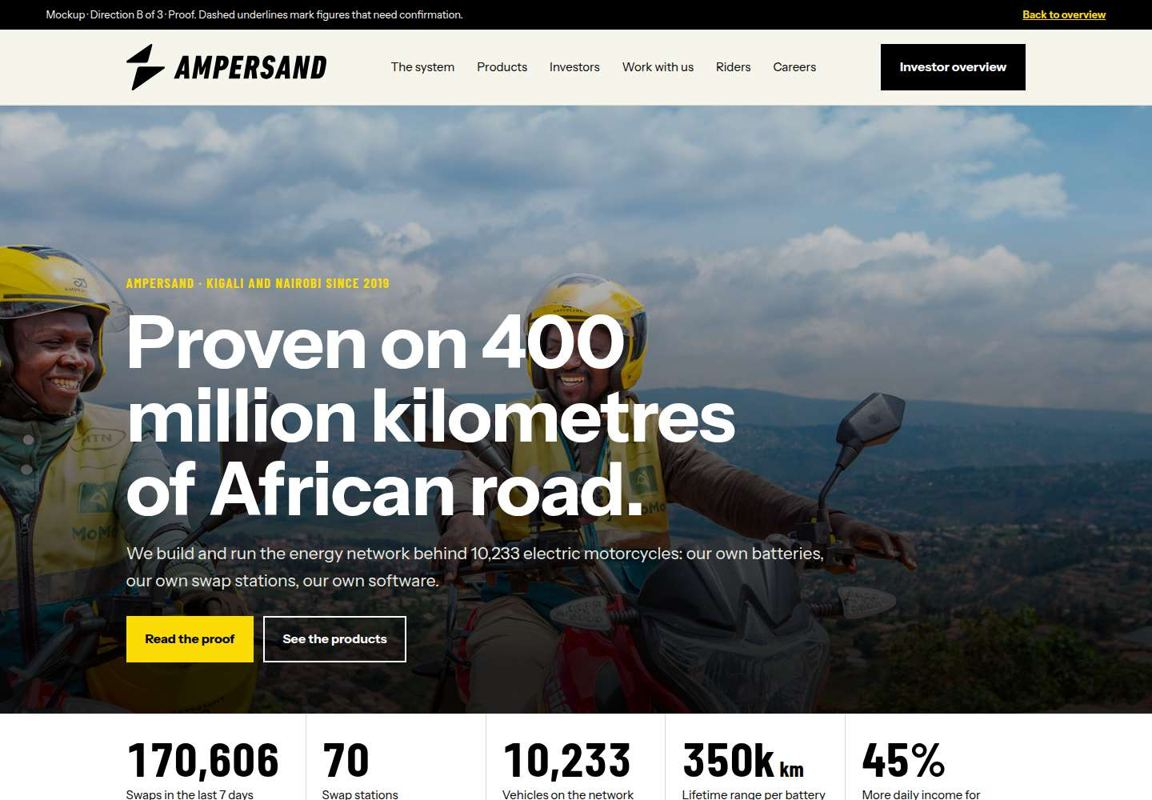
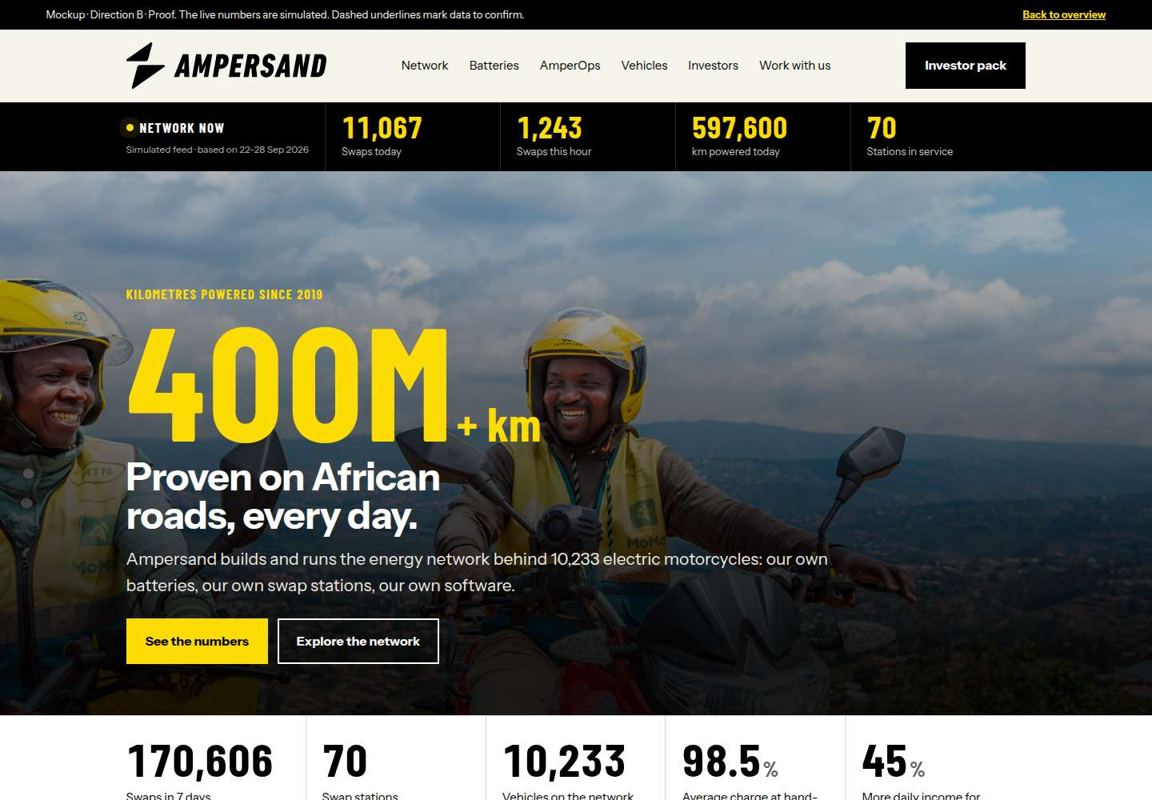
Fill the Proof site with measured network data
Add monthly swap totals (Jan 2023 to Aug 2026), charge at hand-over,
swap time, queue wait, distance per discharge cycle and active packs
from read-only Metabase queries for 22-28 Sep 2026. Show rated and
measured range separately. Fix the phone hero layout and number
wrapping. List the new data caveats on the overview page and use the
Proof site as the Direction B preview.

Claude-Session: https://claude.ai/code/session_011MGWp8ueEGbp3fGTaK5ujy

diff --git a/proof/assets/data.js b/proof/assets/data.js
@@ -1,14 +1,64 @@
-/* Numbers for the Proof site. Source and period for each value are in the comments. */
+/* Numbers for the Proof site. Each value has its source and period. Update before launch. */
 window.AMP_DATA = {
   asOf: '22–28 Sep 2026',
   dailySwaps: 24372,   // AmperOps: 170,606 swaps / 7 days
-  kmPerSwap: 47.5,     // inferred: 950k km/day ÷ 20k swaps/day (ampersand.energy)
+  kmPerSwap: 54,       // Metabase cycles_v2: 52–58 km average per discharge cycle, 22–28 Sep 2026
   stations: 70,        // AmperOps: 41 Rwanda + 29 Kenya public stations
-  trendUnit: 'swaps per month',
-  // Milestones from ampersand.energy, and Sep 2026 from AmperOps (7-day total × 30.4 ÷ 7).
+  // Share of daily swaps by hour, Kigali time. Shape from Metabase swaps_v2 (peak about 18:00 local), smoothed.
+  hourly: [0.6,0.4,0.3,0.3,0.5,1.5,3.5,5.0,5.4,5.4,5.3,5.3,5.4,5.4,5.5,5.7,5.9,6.1,6.2,5.9,5.3,4.8,4.6,2.2],
+  trendUnit: 'swaps',
+  // Metabase swaps_v2, monthly totals, Rwanda + Kenya, UTC months. Sep 2026 left out (partial month).
   trend: [
-    {x: '2022-12', label: 'Dec 2022', y: 80000},
-    {x: '2023-06', label: 'Jun 2023', y: 115000},
-    {x: '2026-09', label: 'Sep 2026', y: 740917}
+    {x: '2023-01', label: 'Jan 2023', y: 83645},
+    {x: '2023-02', label: 'Feb 2023', y: 77736},
+    {x: '2023-03', label: 'Mar 2023', y: 86091},
+    {x: '2023-04', label: 'Apr 2023', y: 84738},
+    {x: '2023-05', label: 'May 2023', y: 99444},
+    {x: '2023-06', label: 'Jun 2023', y: 108228},
+    {x: '2023-07', label: 'Jul 2023', y: 120504},
+    {x: '2023-08', label: 'Aug 2023', y: 130997},
+    {x: '2023-09', label: 'Sep 2023', y: 126132},
+    {x: '2023-10', label: 'Oct 2023', y: 135939},
+    {x: '2023-11', label: 'Nov 2023', y: 143143},
+    {x: '2023-12', label: 'Dec 2023', y: 175622},
+    {x: '2024-01', label: 'Jan 2024', y: 191356},
+    {x: '2024-02', label: 'Feb 2024', y: 194154},
+    {x: '2024-03', label: 'Mar 2024', y: 230599},
+    {x: '2024-04', label: 'Apr 2024', y: 232452},
+    {x: '2024-05', label: 'May 2024', y: 263532},
+    {x: '2024-06', label: 'Jun 2024', y: 289953},
+    {x: '2024-07', label: 'Jul 2024', y: 337660},
+    {x: '2024-08', label: 'Aug 2024', y: 369055},
+    {x: '2024-09', label: 'Sep 2024', y: 385099},
+    {x: '2024-10', label: 'Oct 2024', y: 429877},
+    {x: '2024-11', label: 'Nov 2024', y: 439348},
+    {x: '2024-12', label: 'Dec 2024', y: 507031},
+    {x: '2025-01', label: 'Jan 2025', y: 517376},
+    {x: '2025-02', label: 'Feb 2025', y: 495708},
+    {x: '2025-03', label: 'Mar 2025', y: 547084},
+    {x: '2025-04', label: 'Apr 2025', y: 514357},
+    {x: '2025-05', label: 'May 2025', y: 544476},
+    {x: '2025-06', label: 'Jun 2025', y: 532568},
+    {x: '2025-07', label: 'Jul 2025', y: 555891},
+    {x: '2025-08', label: 'Aug 2025', y: 551711},
+    {x: '2025-09', label: 'Sep 2025', y: 525001},
+    {x: '2025-10', label: 'Oct 2025', y: 531626},
+    {x: '2025-11', label: 'Nov 2025', y: 530797},
+    {x: '2025-12', label: 'Dec 2025', y: 590985},
+    {x: '2026-01', label: 'Jan 2026', y: 604506},
+    {x: '2026-02', label: 'Feb 2026', y: 550112},
+    {x: '2026-03', label: 'Mar 2026', y: 633126},
+    {x: '2026-04', label: 'Apr 2026', y: 631547},
+    {x: '2026-05', label: 'May 2026', y: 702301},
+    {x: '2026-06', label: 'Jun 2026', y: 713089},
+    {x: '2026-07', label: 'Jul 2026', y: 764526},
+    {x: '2026-08', label: 'Aug 2026', y: 774874}
+  ],
+  // Metabase cycles_v2, average km per discharge cycle, cycles started 22–28 Sep 2026.
+  kmByModel: [
+    {label: 'AMP 02 · Rwanda', value: 58.1, group: 'rw'},
+    {label: 'AMP 01 · Kenya', value: 55.0, group: 'ke'},
+    {label: 'AMP 01 · Rwanda', value: 52.4, group: 'rw'},
+    {label: 'AMP 02 · Kenya', value: 52.4, group: 'ke'}
   ]
 };

diff --git a/proof/batteries.html b/proof/batteries.html
@@ -26,8 +26,8 @@
     <div class="wrap">
       <div class="cell"><div class="num">350k<small>km</small></div><div class="k">Lifetime range per battery</div><div class="s">ampersand.energy</div></div>
       <div class="cell"><div class="num">70–110<small>km</small></div><div class="k">Range per swap</div><div class="s">By load, terrain and riding</div></div>
-      <div class="cell"><div class="num">{{POOL}}</div><div class="k">Batteries in the pool</div><div class="s">{{POOL_SRC}}</div></div>
-      <div class="cell"><div class="num">{{ONLINE}}<small>%</small></div><div class="k">Online and reporting now</div><div class="s">{{ONLINE_SRC}}</div></div>
+      <div class="cell"><div class="num">16,438</div><div class="k">Batteries in use this week</div><div class="s">Packs with a discharge cycle, 22–28 Sep 2026</div></div>
+      <div class="cell"><div class="num">98.5<small>%</small></div><div class="k">Average charge at hand-over</div><div class="s">Metabase · 22–28 Sep 2026</div></div>
     </div>
   </div>
 
@@ -36,14 +36,14 @@
       <div class="lead-num">
         <div>
           <div class="label muted">Range per swap, measured</div>
-          <div class="num big" style="margin-top:10px">{{KM_BEST}}<small>km</small></div>
-          <p class="cap">{{KM_CAP}}</p>
+          <div class="num big" style="margin-top:10px">58<small>km</small></div>
+          <p class="cap">average distance per discharge cycle of AMP 02 packs in Rwanda. Riders swap with about a quarter of the charge still left.</p>
         </div>
         <div class="stack">
           <div class="chart" id="km">
-            <div class="chart-head"><h3>Average distance per swap, by battery</h3><div class="legend"><span><i style="background:#000"></i>km per swap</span></div></div>
+            <div class="chart-head"><h3>Average km per discharge cycle</h3><div class="legend"><span><i style="background:var(--rw)"></i>Rwanda</span><span><i style="background:var(--ke)"></i>Kenya</span></div></div>
           </div>
-          <p class="src">{{KM_SRC}}</p>
+          <p class="src">Source: Metabase (cycles_v2), discharge cycles started 22–28 Sep 2026. AMP 02 bikes carry two packs; the distance is the bike distance for each pack (to confirm).</p>
         </div>
       </div>
     </div>
@@ -60,8 +60,8 @@
             <tr><th>Platform</th><td>HM1.9 <span class="tbc" title="Naming map to confirm">*</span></td><td>MK2 <span class="tbc" title="Naming map to confirm">*</span></td><td>Next generation</td></tr>
             <tr><th>Chemistry</th><td>LFP</td><td>LFP</td><td>LFP</td></tr>
             <tr><th>Capacity</th><td><span class="tbc" title="Add from the HM1 platform spec">TBC</span></td><td>48 Ah</td><td>More than AMP 02</td></tr>
-            <tr><th>Range per swap</th><td>{{KM_HM1}}</td><td>{{KM_MK2}}</td><td><span class="tbc" title="Target range is not public">TBC</span></td></tr>
-            <tr><th>In the pool</th><td>{{POOL_HM1}}</td><td>{{POOL_MK2}}</td><td>—</td></tr>
+            <tr><th>Range per swap</th><td>52–55 km measured · 70–110 km rated</td><td>52–58 km measured</td><td><span class="tbc" title="Target range is not public">TBC</span></td></tr>
+            <tr><th>Active packs</th><td>9,658 active</td><td>6,780 active</td><td>—</td></tr>
             <tr><th>Connectivity</th><td>BLE, GSM, GPS</td><td>BLE, GSM, GPS <span class="tbc" title="Confirm">*</span></td><td>—</td></tr>
             <tr><th>Certification</th><td>UN38.3</td><td><span class="tbc" title="Confirm">UN38.3</span></td><td>—</td></tr>
             <tr><th>Assembled in</th><td>Kigali, Rwanda</td><td>Kigali, Rwanda</td><td>—</td></tr>

diff --git a/proof/index.html b/proof/index.html
@@ -17,6 +17,7 @@
 .hero p{font-size:clamp(18px,1.6vw,21px);margin-top:14px;color:#EDEDE6}
 .hero .btn{border-color:var(--paper);color:var(--paper)}
 .hero .btn-y{border-color:var(--surge);color:var(--ink)}
+@media (max-width:700px){.hero img{height:260px}.hero .over{position:relative;background:var(--ink)}}
 </style>
 </head>
 <body data-page="home">
@@ -39,7 +40,7 @@
       <div class="cell"><div class="num">170,606</div><div class="k">Swaps in 7 days</div><div class="s">AmperOps · 22–28 Sep 2026</div></div>
       <div class="cell"><div class="num">70</div><div class="k">Swap stations</div><div class="s">41 Rwanda · 29 Kenya</div></div>
       <div class="cell"><div class="num">10,233</div><div class="k">Vehicles on the network</div><div class="s">7,462 Rwanda · 2,771 Kenya</div></div>
-      <div class="cell"><div class="num">{{FULLCHARGE}}<small>%</small></div><div class="k">Batteries handed out full</div><div class="s">{{FULLCHARGE_SRC}}</div></div>
+      <div class="cell"><div class="num">98.5<small>%</small></div><div class="k">Average charge at hand-over</div><div class="s">Metabase · 22–28 Sep 2026</div></div>
       <div class="cell"><div class="num">45<small>%</small></div><div class="k">More daily income for riders</div><div class="s">ampersand.energy</div></div>
     </div>
   </div>
@@ -49,11 +50,11 @@
       <div class="lead-num">
         <div>
           <div class="label muted">Growth</div>
-          <div class="num big" style="margin-top:10px">{{GROWTH_MULT}}×</div>
-          <p class="cap">{{GROWTH_CAP}}</p>
+          <div class="num big" style="margin-top:10px">9×</div>
+          <p class="cap">more swaps per month in August 2026 than in January 2023: 774,874 against 83,645.</p>
         </div>
         <div class="chart" id="trend">
-          <div class="chart-head"><h3>{{TREND_TITLE}}</h3><span class="src">{{TREND_SRC}}</span></div>
+          <div class="chart-head"><h3>Swaps per month, Rwanda and Kenya</h3><span class="src">Metabase · Jan 2023 – Aug 2026</span></div>
         </div>
       </div>
     </div>
@@ -93,7 +94,7 @@
       <div class="cards">
         <a class="card" href="network.html"><img src="../assets/img/station-battery-racks.jpg" alt="Charging racks in a station"><div class="num">70</div><h3>Swap network</h3><p class="muted">Stations in Rwanda and Kenya.</p></a>
         <a class="card" href="batteries.html"><img class="contain" src="../assets/img/battery-amp.jpg" alt="Yellow AMP battery"><div class="num">70–110<small>km</small></div><h3>AMP batteries</h3><p class="muted">Range per swap, by load and terrain.</p></a>
-        <a class="card" href="amperops.html"><img src="../assets/img/amperops-dashboard.jpg" alt="AmperOps dashboard"><div class="num">{{ONLINE}}<small>%</small></div><h3>AmperOps</h3><p class="muted">Of batteries online and reporting.</p></a>
+        <a class="card" href="amperops.html"><img src="../assets/img/amperops-dashboard.jpg" alt="AmperOps dashboard"><div class="num">864k</div><h3>AmperOps</h3><p class="muted">Data points from each battery, every day.</p></a>
         <a class="card" href="vehicles.html"><img class="contain" src="../assets/img/alpha-cutout.webp" alt="Red Alpha e-moto"><div class="num">95<small>%</small></div><h3>E-motos</h3><p class="muted">Of riders prefer Ampersand to petrol.</p></a>
       </div>
     </div>

diff --git a/proof/network.html b/proof/network.html
@@ -26,8 +26,8 @@
     <div class="wrap">
       <div class="cell"><div class="num">70</div><div class="k">Stations in service</div><div class="s">41 Rwanda · 29 Kenya</div></div>
       <div class="cell"><div class="num">170,606</div><div class="k">Swaps in 7 days</div><div class="s">139,808 Rwanda · 30,798 Kenya</div></div>
-      <div class="cell"><div class="num">{{FULLCHARGE}}<small>%</small></div><div class="k">Batteries handed out full</div><div class="s">{{FULLCHARGE_SRC}}</div></div>
-      <div class="cell"><div class="num">{{WAIT_AVG}}<small>min</small></div><div class="k">Average wait to swap</div><div class="s">{{WAIT_SRC}}</div></div>
+      <div class="cell"><div class="num">98.5<small>%</small></div><div class="k">Average charge at hand-over</div><div class="s">Metabase · 22–28 Sep 2026</div></div>
+      <div class="cell"><div class="num">77<small>s</small></div><div class="k">Average time for one swap</div><div class="s">Metabase · 22–28 Sep 2026</div></div>
     </div>
   </div>
 
@@ -57,13 +57,13 @@
       <div class="sec-head"><div><div class="label muted">Service levels</div><h2 style="margin-top:12px">What a rider gets at every station.</h2></div></div>
       <div class="facts">
         <div><div class="num">70–110<small>km</small></div><div class="k">Range per swap, by load and terrain</div></div>
-        <div><div class="num">{{WAIT_P95}}<small>min</small></div><div class="k">95% of riders swap within this time</div></div>
-        <div><div class="num">{{PEAK_HOUR}}</div><div class="k">Busiest hour of the day</div></div>
-        <div><div class="num">{{SPV}}</div><div class="k">Swaps per active vehicle per day</div></div>
+        <div><div class="num">4.8<small>min</small></div><div class="k">Median queue wait in Rwanda. Kenya: 2.6 min</div></div>
+        <div><div class="num">18:00</div><div class="k">Busiest hour of the day</div></div>
+        <div><div class="num">2.6</div><div class="k">Swaps per active vehicle per day</div></div>
         <div><div class="num">1011</div><div class="k">Rider hotline in Rwanda</div></div>
         <div><div class="num">24/7<span class="tbc" title="Confirm station opening hours">*</span></div><div class="k">Rescue swaps for stranded riders</div></div>
       </div>
-      <p class="src" style="margin-top:14px">{{SERVICE_SRC}}</p>
+      <p class="src" style="margin-top:14px">Source: Metabase (swaps_v2), non-rescue swaps, 22–28 Sep 2026. Queue times exist for 58% of swaps in Rwanda and 34% in Kenya. The busiest hour assumes that timestamps are in UTC.</p>
     </div>
   </section>
 

diff --git a/proof/amperops.html b/proof/amperops.html
@@ -25,8 +25,8 @@
   <div class="band">
     <div class="wrap">
       <div class="cell"><div class="num">864k</div><div class="k">Data points per battery per day</div><div class="s">50 points × 17,280 reports</div></div>
-      <div class="cell"><div class="num">{{POOL}}</div><div class="k">Batteries monitored</div><div class="s">{{POOL_SRC}}</div></div>
-      <div class="cell"><div class="num">{{ONLINE}}<small>%</small></div><div class="k">Online and reporting now</div><div class="s">{{ONLINE_SRC}}</div></div>
+      <div class="cell"><div class="num">16,438</div><div class="k">Batteries active this week</div><div class="s">Packs with a discharge cycle, 22–28 Sep 2026</div></div>
+      <div class="cell"><div class="num">77<small>s</small></div><div class="k">Average time for one swap</div><div class="s">Metabase · 22–28 Sep 2026</div></div>
       <div class="cell"><div class="num">24,372</div><div class="k">Swaps processed per day</div><div class="s">AmperOps · 22–28 Sep 2026</div></div>
     </div>
   </div>
@@ -54,11 +54,11 @@
     <div class="wrap">
       <div class="sec-head"><div><div class="label muted">Swap quality</div><h2 style="margin-top:12px">Every swap is checked.</h2></div><p class="muted">AmperOps records the charge of each battery that leaves a station, and flags swaps that do not meet the standard.</p></div>
       <div class="facts">
-        <div><div class="num">{{FULLCHARGE}}<small>%</small></div><div class="k">Batteries handed out at full charge</div></div>
-        <div><div class="num">{{WAIT_AVG}}<small>min</small></div><div class="k">Average wait from queue to swap</div></div>
-        <div><div class="num">{{WAIT_P95}}<small>min</small></div><div class="k">95th percentile wait</div></div>
+        <div><div class="num">98.9<small>%</small></div><div class="k">AMP 02 packs handed out at full charge. All packs: 88.7%</div></div>
+        <div><div class="num">98.5<small>%</small></div><div class="k">Average charge at hand-over</div></div>
+        <div><div class="num">4.8<small>min</small></div><div class="k">Median queue wait in Rwanda. Kenya: 2.6 min</div></div>
       </div>
-      <p class="src" style="margin-top:14px">{{SERVICE_SRC}}</p>
+      <p class="src" style="margin-top:14px">Source: Metabase (swaps_v2), non-rescue swaps, 22–28 Sep 2026. Queue times exist for 58% of swaps in Rwanda and 34% in Kenya. The busiest hour assumes that timestamps are in UTC.</p>
     </div>
   </section>
 

diff --git a/index.html b/index.html
@@ -213,6 +213,10 @@ footer{margin-top:40px;font-size:14px;color:var(--muted)}
       <li><span class="chip info">Permission</span><div><b>Backers.</b> The mockups show backer names as text. Confirm the list and get permission to use logos.</div></li>
       <li><span class="chip info">Photos</span><div><b>Rider quotes.</b> The quotes by Gitwaza, Rukundo and Etienne are from the current Impact page. The photos next to them show other riders. Match each photo to the correct name.</div></li>
       <li><span class="chip info">Brand</span><div><b>Logo size on phones.</b> The brand book sets a minimum digital size of 250 px. On phone screens the header logo is 190 px. Confirm if this is acceptable.</div></li>
+      <li><span class="chip warn">Confirm</span><div><b>Proof site data.</b> Most performance numbers come from read-only Metabase queries (swaps_v2, cycles_v2) for 22–28 Sep 2026, because AmperOps timed out. The data team must check the definitions: 98.5% is the average charge at hand-over; the full-charge rate is 88.7% for all packs and 98.9% for AMP 02, but MK2 records only one of its two packs; queue times exist for only 58% (Rwanda) and 34% (Kenya) of swaps; the busiest hour assumes UTC timestamps.</div></li>
+      <li><span class="chip warn">Decide</span><div><b>Battery online rate.</b> Not shown. The newest snapshot is from 16 Aug 2026, it counts retired packs, and the MK2 figure (about 60%) may be a telemetry fault.</div></li>
+      <li><span class="chip info">Check</span><div><b>AmperOps connector.</b> The detailed AmperOps reports (queue times, charge quality, online rate) timed out during this work. Ask the team that runs the AmperOps server to check it.</div></li>
+      <li><span class="chip info">Build</span><div><b>Live feed.</b> The "Network now" bar is a simulation from the 7-day average. The real site needs a cached public feed from AmperOps with the same four numbers.</div></li>
       <li><span class="chip ok">Done</span><div><b>Brand system.</b> The mockups use Instrument Sans and Barlow Condensed, two weights, sentence case, the primary palette and the approved logo files.</div></li>
     </ul>
   </section>

diff --git a/proof/vehicles.html b/proof/vehicles.html
@@ -16,7 +16,7 @@
   <div class="phero"><div class="wrap grid">
     <div>
       <span class="chip">Vehicles</span>
-      <h1 style="margin-top:18px">10,233 e-motos on one network.</h1>
+      <h1 style="margin-top:18px">10,233 e&#8209;motos on one network.</h1>
       <p class="lead muted">Alpha e-motos and partner vehicles carry passengers and cargo all day on the hills of Kigali and the roads of Nairobi. Every one runs on AMP batteries.</p>
     </div>
     <img src="../assets/img/rider-motion.jpg" alt="Rider and passenger on an Alpha e-moto">
@@ -66,7 +66,8 @@
                 <tr><th>Power</th><td>4.5 kW nominal</td><td><span class="tbc" title="Add from the MK2 release document">TBC</span></td><td>8 kW peak</td></tr>
                 <tr><th>Torque</th><td>&gt;220 Nm</td><td><span class="tbc" title="Add from the MK2 release document">TBC</span></td><td>&gt;260 Nm</td></tr>
                 <tr><th>Payload</th><td>230 kg</td><td><span class="tbc" title="Add from the MK2 release document">TBC</span></td><td>230 kg</td></tr>
-                <tr><th>Range per swap</th><td>70–80 km</td><td>About 75 km</td><td>70–80 km</td></tr>
+                <tr><th>Rated range per swap</th><td>70–80 km</td><td>About 75 km <span class="tbc" title="Figure from internal planning. Confirm the rated range">*</span></td><td>70–80 km</td></tr>
+                <tr><th>Measured, network average</th><td>52–55 km</td><td>52–58 km</td><td>52–55 km <span class="tbc" title="Network average for AMP 01 packs, all vehicle types">*</span></td></tr>
                 <tr><th>Climb</th><td>+15°</td><td><span class="tbc" title="Add from the MK2 release document">TBC</span></td><td>+15°</td></tr>
                 <tr><th>Power modes</th><td>3</td><td><span class="tbc" title="Add from the MK2 release document">TBC</span></td><td>2</td></tr>
                 <tr><th>Regen braking</th><td>30 A</td><td><span class="tbc" title="Add from the MK2 release document">TBC</span></td><td>30 A adaptive</td></tr>

diff --git a/proof/investors.html b/proof/investors.html
@@ -36,11 +36,11 @@
       <div class="lead-num">
         <div>
           <div class="label muted">Growth</div>
-          <div class="num big" style="margin-top:10px">{{GROWTH_MULT}}×</div>
-          <p class="cap">{{GROWTH_CAP}}</p>
+          <div class="num big" style="margin-top:10px">9×</div>
+          <p class="cap">more swaps per month in August 2026 than in January 2023: 774,874 against 83,645.</p>
         </div>
         <div class="chart" id="trend">
-          <div class="chart-head"><h3>{{TREND_TITLE}}</h3><span class="src">{{TREND_SRC}}</span></div>
+          <div class="chart-head"><h3>Swaps per month, Rwanda and Kenya</h3><span class="src">Metabase · Jan 2023 – Aug 2026</span></div>
         </div>
       </div>
     </div>

diff --git a/proof/assets/proof.css b/proof/assets/proof.css
@@ -89,7 +89,7 @@ header.site{background:var(--chalk);border-bottom:1px solid var(--rule);position
 .band .cell{padding:28px 20px 28px 0;border-right:1px solid var(--rule);min-width:0}
 .band .cell + .cell{padding-left:20px}
 .band .cell:last-child{border-right:0}
-.band .num{font-size:clamp(44px,5vw,72px)}
+.band .num{font-size:clamp(40px,4.6vw,66px);white-space:nowrap}
 .band .k{font-size:15px;margin-top:10px}
 .band .s{font-size:12px;color:var(--ebony);margin-top:6px}
 .band.five .wrap{grid-template-columns:repeat(5,1fr)}
